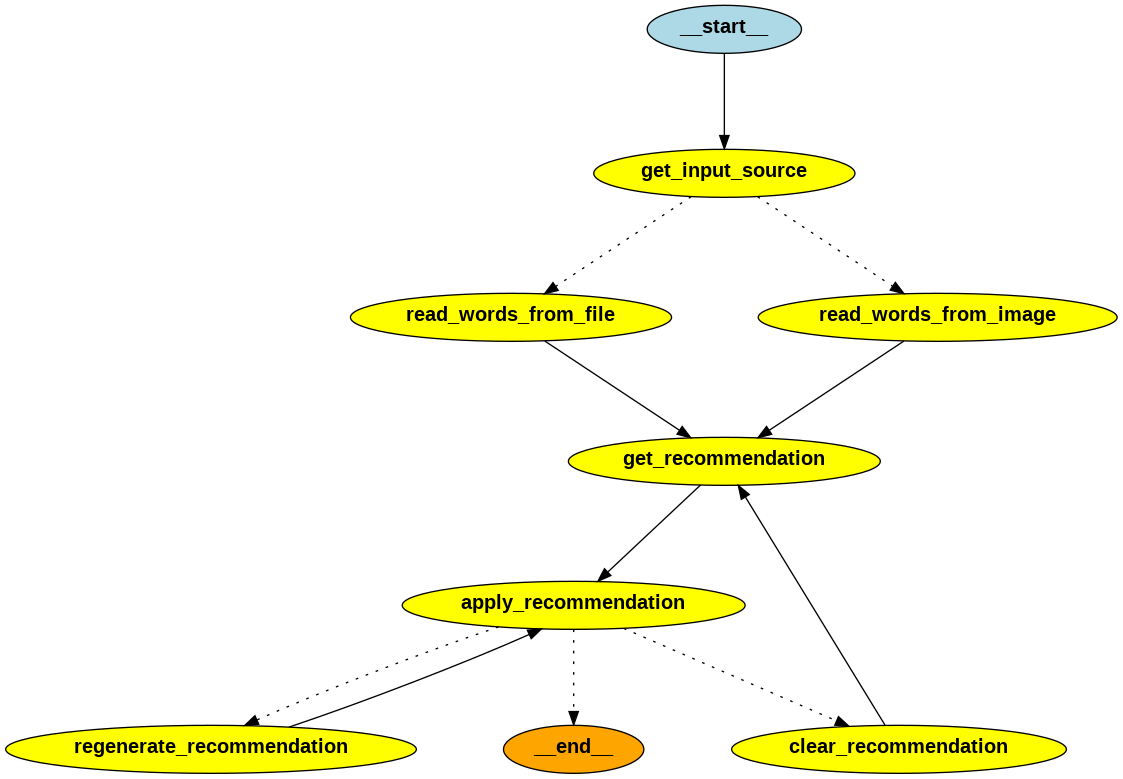
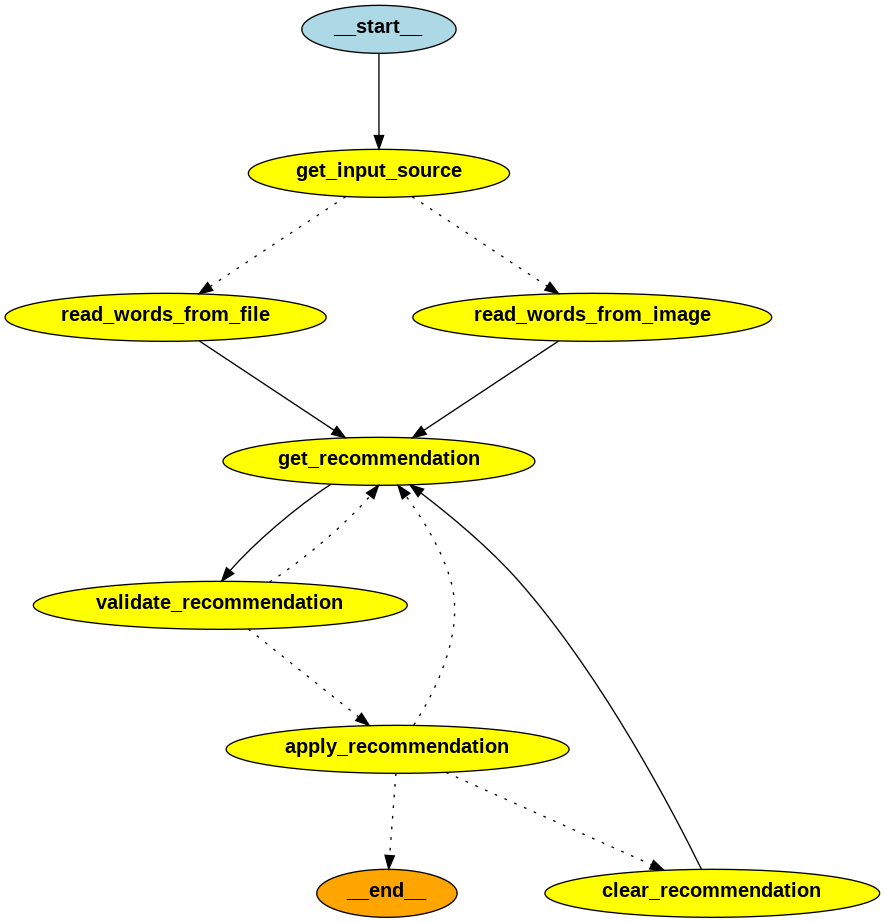
WIP

diff --git a/src/agent/app.py b/src/agent/app.py
@@ -10,12 +10,20 @@ import numpy as np
 from langgraph.graph import StateGraph, END
 from langchain_core.messages import HumanMessage
 
-from tools import read_file_to_word_list, extract_words_from_image, ask_llm_for_solution, interact_with_user
+from tools import (
+    read_file_to_word_list,
+    extract_words_from_image,
+    ask_llm_for_solution,
+    validate_llm_solution,
+    interact_with_user,
+)
 from utils import chunk_words, flatten_list
 
 pp = pprint.PrettyPrinter(indent=4)
 
 MAX_ERRORS = 4
+
+np.random.seed(0)
 
 
 class PuzzleState(TypedDict):
@@ -24,6 +32,8 @@ class PuzzleState(TypedDict):
     recommended_words: List[str] = []
     recommended_connection: str = ""
     recommended_correct: bool = False
+    recommended_validation_count: int = 0
+    recommended_validation_status: str = ""
     found_yellow: bool = False
     found_greeen: bool = False
     found_blue: bool = False
@@ -107,7 +117,7 @@ def get_recommendation(state: PuzzleState) -> PuzzleState:
             prompt += f"{', '.join(invalid_connection)}\n"
     prompt += "\n\n"
     # scramble the remaining words for more robust group selection
-    random.shuffle(state["words_remaining"])
+    np.random.shuffle(state["words_remaining"])
     prompt += f"candidate list: {', '.join(state['words_remaining'])}\n"
 
     prompt = HumanMessage(prompt)
@@ -133,56 +143,94 @@ def get_recommendation(state: PuzzleState) -> PuzzleState:
     return state
 
 
-REGENERATE_MESSAGE_PART1 = """
-    I am working on solving a word grouping puzzle where I need to select 4 words that fit into a specific category from a list of remaining words. The current recommended set of 4 words is incorrect, with one or more words being wrong. Please help me regenerate a new set of 4 words that better fits the category. Below is the relevant information:\n
-    """
-# Remaining words: [list the remaining words]
-# Current recommended set (incorrect): [list the 4 words]
-REGNERTE_MESSAGE_PART2 = """
-    Please suggest a completely new set of 4 words based on the remaining words and correct the errors in the current set and do not use any know invalid groups. 
-    """
+def validate_recommendation(state: PuzzleState) -> PuzzleState:
 
+    logger.info("Entering validate_recommendation:")
+    logger.debug(f"\nEntering validate_recommendation State: {pp.pformat(state)}")
 
-def regenerate_recommendation(state: PuzzleState) -> PuzzleState:
-    logger.info("Entering regenerate recommendation:")
-    logger.debug(f"\nEntering regenerate recommendation State: {pp.pformat(state)}")
+    print(
+        f"Vallidating: Recommended Words: {state['recommended_words']}, Connection: {state['recommended_connection']}"
+    )
 
-    # build prompt for llm
-    prompt = REGENERATE_MESSAGE_PART1
-    # scramble the remaining words for more robust group selection
-    random.shuffle(state["words_remaining"])
-    prompt += f"\nRemaining words: {', '.join(state['words_remaining'])}\n"
-    prompt += f"\nCurrent recommended set (incorrect): {', '.join(state['recommended_words'])}\n"
-    if len(state["invalid_connections"]) > 0:
-        prompt += "\n\nDo not include word groups that are known to be invalid."
-        prompt += "\n"
-        prompt += "Invalid word groups:\n"
-        for invalid_connection in state["invalid_connections"]:
-            prompt += f"{', '.join(invalid_connection)}\n"
-
-    prompt += REGNERTE_MESSAGE_PART2
+    # validate the recommendation
+    prompt = f"words: {', '.join(state['recommended_words'])}\nconnection: {state['recommended_connection']}\n"
+    logger.info(f"\nPrompt for llm:\n{prompt}")
 
     prompt = HumanMessage(prompt)
 
-    logger.info(f"\nPrompt for llm: {prompt.content}")
-
-    # get recommendation from llm
-    llm_response = ask_llm_for_solution(prompt, temperature=state["llm_temperature"])
+    # get validation from llm
+    llm_response = validate_llm_solution(prompt, temperature=state["llm_temperature"])
 
     llm_response_json = json.loads(llm_response.content)
-    if isinstance(llm_response_json, list):
-        logger.debug(f"\nLLM response is list")
-        state["recommended_words"] = llm_response_json[0]["words"]
-        state["recommended_connection"] = llm_response_json[0]["connection"]
-    else:
-        logger.debug(f"\nLLM response is dict")
-        state["recommended_words"] = llm_response_json["words"]
-        state["recommended_connection"] = llm_response_json["connection"]
 
-    logger.info("Exiting regenerate recommendation:")
-    logger.debug(f"\nExiting regenerate recommendation State: {pp.pformat(state)}")
+    print(f"Validation Status: {llm_response_json['validation_status']}")
+    state["recommended_validation_status"] = llm_response_json["validation_status"]
+    state["recommended_validation_count"] += 1
 
     return state
+
+
+def determine_validation_action(state: PuzzleState) -> str:
+    logger.info("Entering determine_validation_action:")
+    logger.debug(f"\nEntering determine_validation_action State: {pp.pformat(state)}")
+
+    if state["recommended_validation_status"] == "yes":
+        return "apply_recommendation"
+    else:
+        return "get_recommendation"
+
+
+# TODO: Clean up code
+# REGENERATE_MESSAGE_PART1 = """
+#     I am working on solving a word grouping puzzle where I need to select 4 words that fit into a specific category from a list of remaining words. The current recommended set of 4 words is incorrect, with one or more words being wrong. Please help me regenerate a new set of 4 words that better fits the category. Below is the relevant information:\n
+#     """
+# # Remaining words: [list the remaining words]
+# # Current recommended set (incorrect): [list the 4 words]
+# REGNERTE_MESSAGE_PART2 = """
+#     Please suggest a completely new set of 4 words based on the remaining words and correct the errors in the current set and do not use any know invalid groups.
+#     """
+
+
+# def regenerate_recommendation(state: PuzzleState) -> PuzzleState:
+#     logger.info("Entering regenerate recommendation:")
+#     logger.debug(f"\nEntering regenerate recommendation State: {pp.pformat(state)}")
+
+#     # build prompt for llm
+#     prompt = REGENERATE_MESSAGE_PART1
+#     # scramble the remaining words for more robust group selection
+#     random.shuffle(state["words_remaining"])
+#     prompt += f"\nRemaining words: {', '.join(state['words_remaining'])}\n"
+#     prompt += f"\nCurrent recommended set (incorrect): {', '.join(state['recommended_words'])}\n"
+#     if len(state["invalid_connections"]) > 0:
+#         prompt += "\n\nDo not include word groups that are known to be invalid."
+#         prompt += "\n"
+#         prompt += "Invalid word groups:\n"
+#         for invalid_connection in state["invalid_connections"]:
+#             prompt += f"{', '.join(invalid_connection)}\n"
+
+#     prompt += REGNERTE_MESSAGE_PART2
+
+#     prompt = HumanMessage(prompt)
+
+#     logger.info(f"\nPrompt for llm: {prompt.content}")
+
+#     # get recommendation from llm
+#     llm_response = ask_llm_for_solution(prompt, temperature=state["llm_temperature"])
+
+#     llm_response_json = json.loads(llm_response.content)
+#     if isinstance(llm_response_json, list):
+#         logger.debug(f"\nLLM response is list")
+#         state["recommended_words"] = llm_response_json[0]["words"]
+#         state["recommended_connection"] = llm_response_json[0]["connection"]
+#     else:
+#         logger.debug(f"\nLLM response is dict")
+#         state["recommended_words"] = llm_response_json["words"]
+#         state["recommended_connection"] = llm_response_json["connection"]
+
+#     logger.info("Exiting regenerate recommendation:")
+#     logger.debug(f"\nExiting regenerate recommendation State: {pp.pformat(state)}")
+
+#     return state
 
 
 def apply_recommendation(state: PuzzleState) -> PuzzleState:
@@ -231,6 +279,8 @@ def clear_recommendation(state: PuzzleState) -> PuzzleState:
     state["recommended_words"] = []
     state["recommended_connection"] = ""
     state["recommended_correct"] = False
+    state["recommended_validation_count"] = 0
+    state["recommended_validation_status"] = ""
 
     logger.info("Exiting clear_recommendation:")
     logger.debug(f"\nExiting clear_recommendation State: {pp.pformat(state)}")
@@ -254,8 +304,8 @@ def is_end(state: PuzzleState) -> str:
         logger.info("Recommendation accepted, Going to clear_recommendation")
         return "clear_recommendation"
     else:
-        logger.info("Recommendation not accepted, Going to regenerate_recommendation")
-        return "regenerate_recommendation"
+        logger.info("Recommendation not accepted, Going to get_recommendation")
+        return "get_recommendation"
 
 
 if __name__ == "__main__":
@@ -280,7 +330,8 @@ if __name__ == "__main__":
     workflow.add_node("read_words_from_file", read_words_from_file)
     workflow.add_node("read_words_from_image", read_words_from_image)
     workflow.add_node("get_recommendation", get_recommendation)
-    workflow.add_node("regenerate_recommendation", regenerate_recommendation)
+    workflow.add_node("validate_recommendation", validate_recommendation)
+    # workflow.add_node("regenerate_recommendation", regenerate_recommendation)
     workflow.add_node("apply_recommendation", apply_recommendation)
     workflow.add_node("clear_recommendation", clear_recommendation)
 
@@ -295,9 +346,19 @@ if __name__ == "__main__":
 
     workflow.add_edge("read_words_from_file", "get_recommendation")
     workflow.add_edge("read_words_from_image", "get_recommendation")
-    workflow.add_edge("get_recommendation", "apply_recommendation")
+    workflow.add_edge("get_recommendation", "validate_recommendation")
+
+    workflow.add_conditional_edges(
+        "validate_recommendation",
+        determine_validation_action,
+        {
+            "get_recommendation": "get_recommendation",
+            "apply_recommendation": "apply_recommendation",
+        },
+    )
+
     workflow.add_edge("clear_recommendation", "get_recommendation")
-    workflow.add_edge("regenerate_recommendation", "apply_recommendation")
+    # workflow.add_edge("regenerate_recommendation", "apply_recommendation")
 
     workflow.add_conditional_edges(
         "apply_recommendation",
@@ -305,7 +366,7 @@ if __name__ == "__main__":
         {
             END: END,
             "clear_recommendation": "clear_recommendation",
-            "regenerate_recommendation": "regenerate_recommendation",
+            "get_recommendation": "get_recommendation",
         },
     )
 
@@ -320,17 +381,19 @@ if __name__ == "__main__":
         recommended_words=[],
         recommended_connection="",
         recommended_correct=False,
+        recommended_validation_count=0,
+        recommended_validation_status="",
         found_blue=False,
         found_green=False,
         found_purple=False,
         found_yellow=False,
         mistake_count=0,
         recommendation_count=0,
-        llm_temperature=0.7,
+        llm_temperature=1.0,
         input_source_type="",
     )
 
-    result = app.invoke(initial_state)
+    result = app.invoke(initial_state, {"recursion_limit": 50})
 
     print("\n\nFINAL PUZZLE STATE:")
     pp.pprint(result)

diff --git a/src/agent/tools.py b/src/agent/tools.py
@@ -117,7 +117,7 @@ SYSTEM_MESSAGE = SystemMessage(
     2. **Identify Themes**: Notice any apparent themes or categories (e.g., types of animals, names of colors, etc.).
     3. **Group Words**: Attempt to form groups of four words that share a common theme.
     4. **Avoid invalid groups**: Do not include word groups that are known to be invalid.
-    5. **Verify Groups**: Ensure that each word belongs to only one group. If a word seems to fit into multiple categories, decide on the best fit based on the remaining options.
+    5. **Verify Groups**: Ensure that each word belongs to only one group and the word comes from the candiate list. If a word seems to fit into multiple categories, decide on the best fit based on the remaining options.
     6. **Order the groups**: Order your answers in terms of your confidence level, high confidence first.
     7. **Solution output**: Generate only a json response as shown in the **Output Format** section.
 
@@ -190,5 +190,48 @@ def ask_llm_for_solution(prompt, temperature=1.0, max_tokens=4096):
 
     logger.info("Exiting ask_llm_for_solution")
     logger.debug(f"exiting ask_llm_for_solution response {response.content}")
+
+    return response
+
+
+VALIDATION_SYSTEM_MESSAGE = SystemMessage(
+    """
+    you are a helpful assistant to validate the answer for the Connection Puzzle.  you will be given a list for four words.  You must validate that the words have a common theme or characteristic.
+
+    The common theme reason must encompass a single specific idea or concept and the all the words are consistent with that single specific idea or concept.
+
+    Respond with "yes" if the words share the common theme, otherwise respond "no" in a json format.
+
+    # Ouptut Format
+    ```json
+    {
+        "validation_status": "yes"
+    }
+    ```
+    """
+)
+
+
+def validate_llm_solution(prompt, temperature=1.0, max_tokens=4096):
+
+    logger.info("Entering validate_llm_solution")
+    logger.debug(f"Entering validate_llm_solution Prompt: {prompt.content}")
+    # Initialize the OpenAI LLM with your API key and specify the GPT-4o model
+    llm = ChatOpenAI(
+        api_key=api_key,
+        model="gpt-4o",
+        temperature=temperature,
+        max_tokens=max_tokens,
+        model_kwargs={"response_format": {"type": "json_object"}},
+    )
+
+    # Create a prompt by concatenating the system and human messages
+    conversation = [VALIDATION_SYSTEM_MESSAGE, prompt]
+
+    # Invoke the LLM
+    response = llm.invoke(conversation)
+
+    logger.info("Exiting validate_llm_solution")
+    logger.debug(f"exiting validate_llm_solution response {response.content}")
 
     return response
